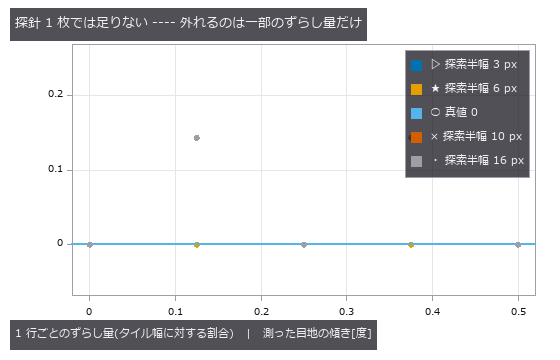
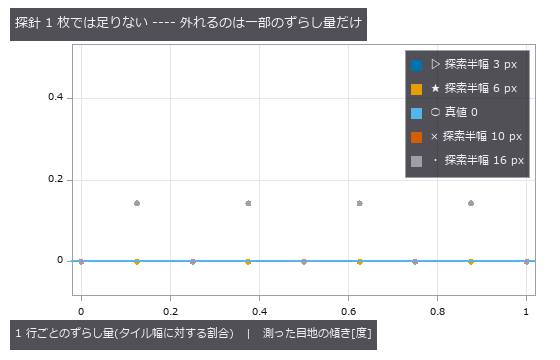
fix(illusion): D1 カフェウォールの錯視が消えるずらし量を 0/1.0 に直す(敵対的検証 2026-11-05 第 2 巡)
illusion_cafe_wall の docstring は「0 または 0.5 で消え 0.25 が最強」と書いていたが、
実装は行 r を r*shift*size ずらし市松の周期は 2*size なので、消えるのは shift=0(揃う)と
1.0(市松)、最強は半タイルの 0.5(既定値)。docstring と 6 言語の訳(op_rest.json、指紋も)を直した。
兄弟: poc_calipers_under_illusion の格子は 0〜0.5(周期の半分)しか振っていなかった ->
0〜1 の 9 通りへ。外れるずらし量(0.125 の奇数倍)は図説に手で書かず格子から出す。図 03/04 を作り直し。

diff --git a/examples/poc_calipers_under_illusion.py b/examples/poc_calipers_under_illusion.py
@@ -149,10 +149,14 @@ def chapter_cafe_wall():
 
     # (b) ★探針 1 枚では足りない ---- ずらし量 × 探索半幅の格子で全数を見る
     #     最初は shift=0.25 だけで試して「測定器は決して動かない」と書いた。
-    #     格子で見ると **0.125 と 0.375 でだけ** 0.14 度傾く。既定に見える
+    #     格子で見ると **0.125 の奇数倍でだけ** 0.14 度傾く。既定に見える
     #     0.25 は、たまたま外れない側だった。
+    #     ★2026-11-05(敵対的検証 第 2 巡 D1): 格子は 0〜0.5 しか振っていなかった。
+    #     市松の周期は 2 タイル = shift 0〜1 なので、周期 1 つぶんの 9 通りを振る
+    #     (0 と 1.0 が錯視の消える両端、0.5 が最強)。外れたずらし量は本文に
+    #     手で書かず、格子から出す。
     band_w = len(bands[0])
-    shifts = (0.0, 0.125, 0.25, 0.375, 0.5)
+    shifts = tuple(0.125 * k for k in range(9))          # 0, 0.125, ..., 1.0
     mls = (3.0, 6.0, 10.0, 16.0)
     grid_ang = np.zeros((len(shifts), len(mls)))
     grid_rms = np.zeros_like(grid_ang)
@@ -191,6 +195,7 @@ def chapter_cafe_wall():
           "外れた側の rms は %.2f(0.14 度は目で見れば「ほぼ 0」に見える)"
           % float(grid_rms[grid_rms > 0].max()))
     shift_ang = grid_ang[:, list(mls).index(10.0)]
+    bad_shifts = [shifts[i] for i in sorted({int(i) for i, _ in bad})]
 
     if figs.enabled():
         over = _as_rgb(img).copy()
@@ -231,20 +236,23 @@ def chapter_cafe_wall():
         for j, ml in enumerate(mls):
             series.append(("探索半幅 %.0f px" % ml, xs, grid_ang[:, j]))
         figs.save_plot("cafe_wall_grid",
-                       series[:2] + [("真値 0", np.array([-0.02, 0.52]),
+                       series[:2] + [("真値 0", np.array([-0.02, 1.02]),
                                       np.zeros(2))] + series[2:],
                        kinds=["scatter", "scatter", "line", "scatter", "scatter"],
                        xlabel="1 行ごとのずらし量(タイル幅に対する割合)",
-                       ylabel="測った目地の傾き[度]", ylim=(-0.05, 0.25),
+                       ylabel="測った目地の傾き[度]", ylim=(-0.05, 0.5),
                        title="探針 1 枚では足りない ---- 外れるのは一部のずらし量だけ",
-                       caption="ずらし量 5 通り × 探索半幅 4 通りの **%d 通り全部**を"
-                               "測ったもの。★はじめは ずらし量 0.25 だけで試して"
+                       caption="ずらし量 %d 通り(市松の周期 1 つぶん、0〜1)× 探索半幅 %d 通りの"
+                               " **%d 通り全部**を測ったもの。★はじめは ずらし量 0.25 だけで試して"
                                "「測定器は決して動かない」と書きました。格子で見ると、"
-                               "**半幅が目地の帯幅 %d px に届く 10/16 px のとき、"
-                               "ずらし量 0.125 と 0.375 でだけ 0.14 度傾きます**。"
+                               "**半幅が目地の帯幅 %d px に届く %s px のとき、"
+                               "ずらし量 %s でだけ %.2f 度傾きます**。"
                                "0.25 はたまたま外れない側だった ---- **既定に見える"
                                "1 点だけで試すと、この欠陥は構造的に見つかりません**。"
-                               % (grid_ang.size, band_w))
+                               % (len(shifts), len(mls), grid_ang.size, band_w,
+                                  "/".join("%.0f" % mls[j] for j in wide),
+                                  "・".join("%.3f" % s for s in bad_shifts),
+                                  float(np.abs(grid_ang).max())))
         figs.save_plot("cafe_wall_residual",
                        [("当て直した角度[度]", np.arange(grid_ang.size, dtype=float),
                          grid_ang.ravel()),

diff --git a/illusion.py b/illusion.py
@@ -153,10 +153,11 @@ def illusion_cafe_wall(size: int = 40, rows: int = 8, cols: int = 10,
                        mortar: float = 2.0, shift: float = 0.5) -> np.ndarray:
     """カフェウォール錯視。**目地は厳密な水平線**なのに、傾いて見える。
 
-    ``shift`` は 1 行ごとの市松のずれ(``size`` 比)。ずれが 0 または 0.5 では
-    錯視は消える —— **0.25 前後が最も強い**というのが古典的な観察で、この op は
-    そのままずらし量を振れるようにしてある(``shift=0.25`` が既定ではないのは、
-    生成器の既定値で「効果が最大」を主張したくないため)。
+    ``shift`` は 1 行ごとの市松のずれ(``size`` 比、行 ``r`` のずれは ``r * shift * size``)。
+    市松の周期は ``2 * size`` なので、ずれが 0(各行のタイルが縦に揃う)と 1.0
+    (隣の行と白黒が入れ替わった市松模様)では錯視は消え、周期 2 で繰り返す。
+    **半タイルずれの 0.5 前後が最も強い**というのが古典的な観察(Gregory & Heard 1979)
+    で、既定値はこの古典配置にしてある。ずらし量は 0〜1 を振って確かめられる。
 
     不変量: 目地の中心 y は ``k * size``(k = 1..rows-1)**ちょうど**。
     """
